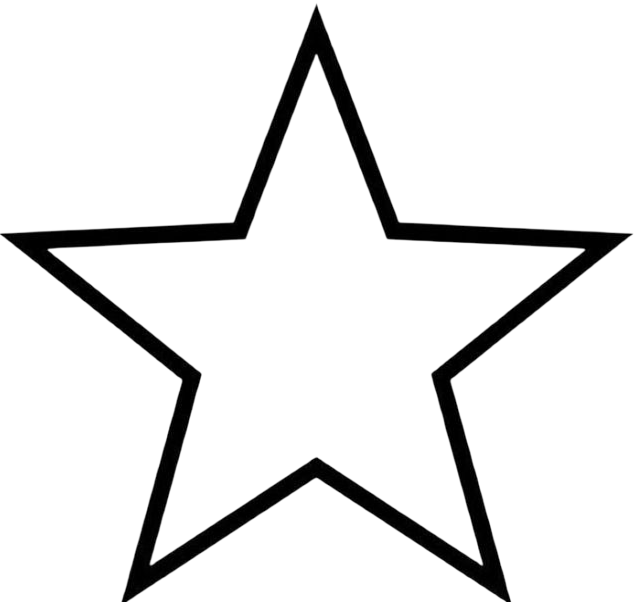
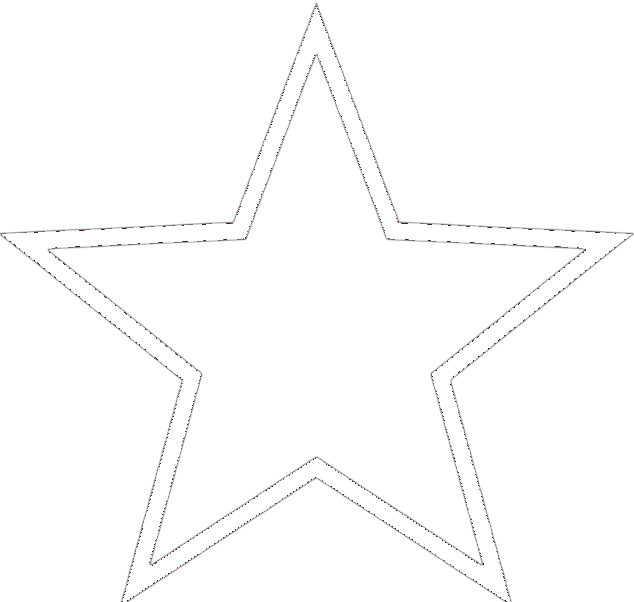
Like function is woring

Changed region(s): [[0.0, 0.0, 1.0, 1.0]]

diff --git a/style.css b/style.css
@@ -79,11 +79,10 @@ header img{
 
 #likeButton img {
     height: 24px;
-    filter: invert();
     cursor: pointer;
 }
 
-.like-counter{
+#like-counter{
     color: #fc00ff;
 }
 
